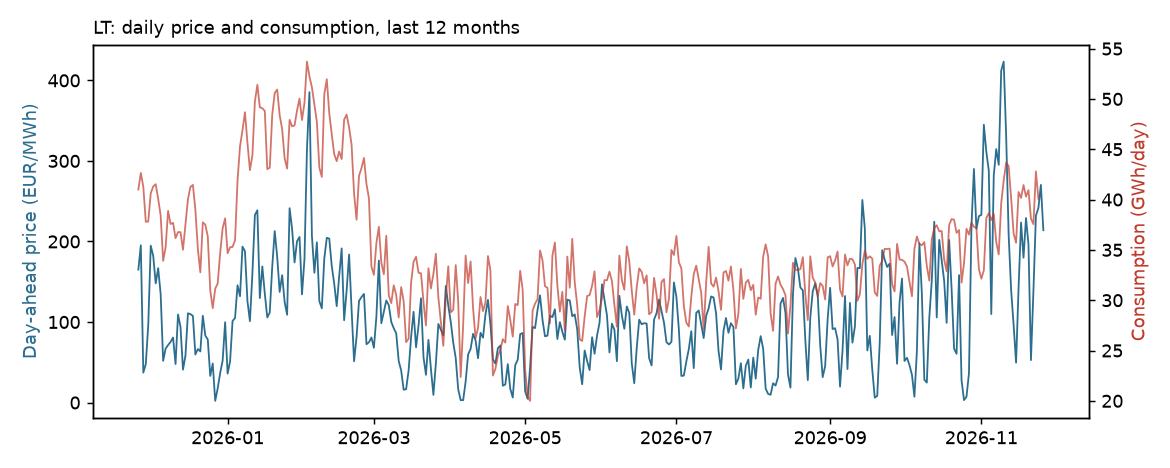
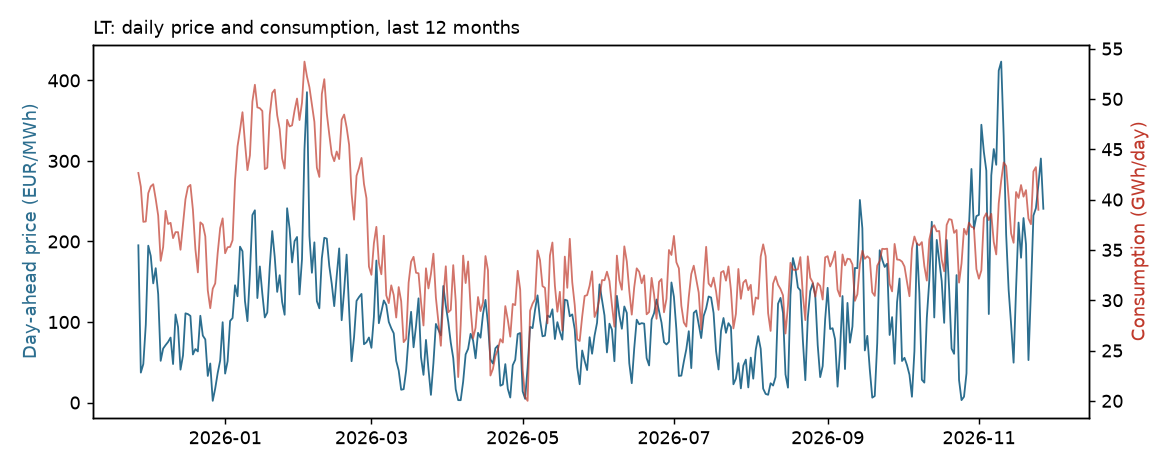
Data refresh 2026-11-25

diff --git a/reports/LT.md b/reports/LT.md
@@ -1,14 +1,14 @@
 # LT electricity report
 
-Updated 2026-11-24 20:14 UTC by the scheduled pipeline. Data: ENTSO-E Transparency Platform.
+Updated 2026-11-25 19:24 UTC by the scheduled pipeline. Data: ENTSO-E Transparency Platform.
 
 ## Day-ahead load forecast, last 8 weeks
 
 | method                      |   hours |   mae_mw |   mape_pct |   bias_mw |
 |:----------------------------|--------:|---------:|-----------:|----------:|
-| Model (no weather)          |    1344 |    69.15 |       4.4  |    -30.78 |
-| Naive (same hour last week) |    1344 |    82.17 |       5.22 |    -32.68 |
-| TSO day-ahead forecast      |    1344 |   104.22 |       6.8  |    -85.4  |
+| Model (no weather)          |    1344 |    64.69 |       4.1  |    -27.9  |
+| Naive (same hour last week) |    1344 |    83.56 |       5.28 |    -35.04 |
+| TSO day-ahead forecast      |    1344 |   102.72 |       6.69 |    -84.01 |
 
 ### Week by week
 
@@ -16,14 +16,14 @@ The table above averages over all backtest weeks. A forecast can come out ahead 
 
 | week_from   |   hours |   Model MAE (MW) |   Model MAPE (%) |   Model bias (MW) |   TSO MAE (MW) |   TSO MAPE (%) |   TSO bias (MW) |
 |:------------|--------:|-----------------:|-----------------:|------------------:|---------------:|---------------:|----------------:|
-| 2026-09-29  |     168 |             56.7 |              4.1 |              39.1 |          139.5 |            9.8 |          -136.7 |
-| 2026-10-06  |     168 |             69.2 |              4.4 |             -60.8 |          203.2 |           13.3 |          -199.5 |
-| 2026-10-13  |     168 |             80.2 |              5.1 |             -78.3 |          137.8 |            8.9 |          -116.6 |
-| 2026-10-20  |     168 |             60.9 |              4.1 |               1.4 |          184.2 |           12.1 |          -177.1 |
-| 2026-10-27  |     168 |             45   |              3   |             -17   |           58.4 |            3.9 |           -25.2 |
-| 2026-11-03  |     168 |             82.7 |              5.1 |             -78.3 |           27.8 |            1.7 |            -3.8 |
-| 2026-11-10  |     168 |            111.2 |              6.5 |             -62.4 |           54   |            3   |           -26.6 |
-| 2026-11-17  |     168 |             47.3 |              2.8 |              10   |           28.8 |            1.7 |             2.4 |
+| 2026-09-30  |     168 |             53.5 |              3.6 |               5.6 |          160   |           11   |          -155.8 |
+| 2026-10-07  |     168 |             66.2 |              4.3 |             -57.9 |          183.5 |           12.1 |          -180.6 |
+| 2026-10-14  |     168 |             57.1 |              3.5 |             -50.2 |          150.5 |            9.6 |          -127.6 |
+| 2026-10-21  |     168 |             61.6 |              4.3 |              21.2 |          169.5 |           11.3 |          -164.8 |
+| 2026-10-28  |     168 |             49.1 |              3.3 |             -18.9 |           48.9 |            3.2 |           -11.8 |
+| 2026-11-04  |     168 |             84.3 |              5.2 |             -80.4 |           33.9 |            2   |           -14.5 |
+| 2026-11-11  |     168 |             98.4 |              5.8 |             -20.9 |           49.8 |            2.8 |            -8   |
+| 2026-11-18  |     168 |             47.3 |              2.8 |             -21.7 |           25.7 |            1.5 |            -8.9 |
 
 ![Forecasts](LT_forecast.png)
 
@@ -31,24 +31,24 @@ The table above averages over all backtest weeks. A forecast can come out ahead 
 
 | local_date   |   energy_gwh |   peak_load_mw |   avg_price_eur_mwh |   negative_price_hours |   tso_forecast_mape_pct |
 |:-------------|-------------:|---------------:|--------------------:|-----------------------:|------------------------:|
-| 2026-11-17   |         40.2 |         1931.3 |               223.5 |                      0 |                     2.9 |
 | 2026-11-18   |         41.4 |         2000.7 |               179.8 |                      0 |                     0.9 |
 | 2026-11-19   |         40.3 |         1922.1 |               229.1 |                      0 |                     1.3 |
 | 2026-11-20   |         40.9 |         2001.6 |               196.4 |                      0 |                     2   |
 | 2026-11-21   |         38.1 |         1864   |                52.7 |                      0 |                     1.9 |
 | 2026-11-22   |         37.6 |         1859.5 |               138.9 |                      0 |                     1.2 |
 | 2026-11-23   |         42.8 |         2065.9 |               232.1 |                      0 |                     1.4 |
+| 2026-11-24   |         43.2 |         2055.6 |               241.4 |                      0 |                     1.6 |
 
 ![Daily](LT_daily.png)
 
 ## Data quality
 
-Generated 2026-11-24 20:14 UTC
+Generated 2026-11-25 19:24 UTC
 
 | Zone | Check | Result | Detail |
 |---|---|---|---|
-| LT | load is fresh | ✅ pass | latest actual load 2026-11-24 19:00 UTC (1 h old) |
+| LT | load is fresh | ✅ pass | latest actual load 2026-11-25 18:00 UTC (1 h old) |
 | LT | no gaps in actual load | ✅ pass | 0 missing hours, longest gap 0 h (last 30 days) |
 | LT | load within 100..5000 | ✅ pass | 0 of 719 hours outside range |
-| LT | price within -500..4000 | ✅ pass | 0 of 746 hours outside range |
-| LT | complete hours | ⚠ warn | 2 hours built from incomplete sub-hourly data |
+| LT | price within -500..4000 | ✅ pass | 0 of 747 hours outside range |
+| LT | complete hours | ⚠ warn | 1 hours built from incomplete sub-hourly data |
